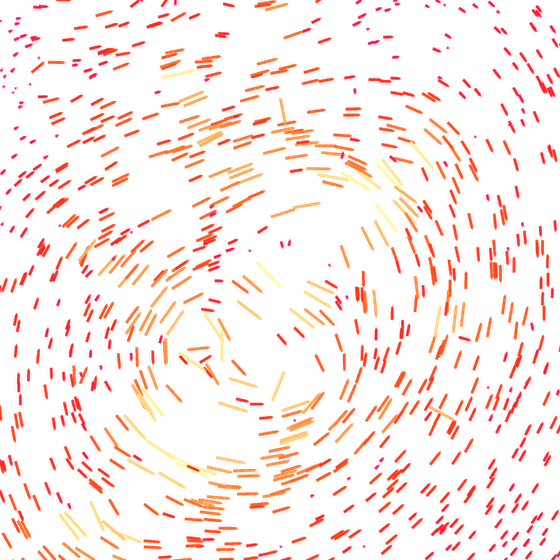
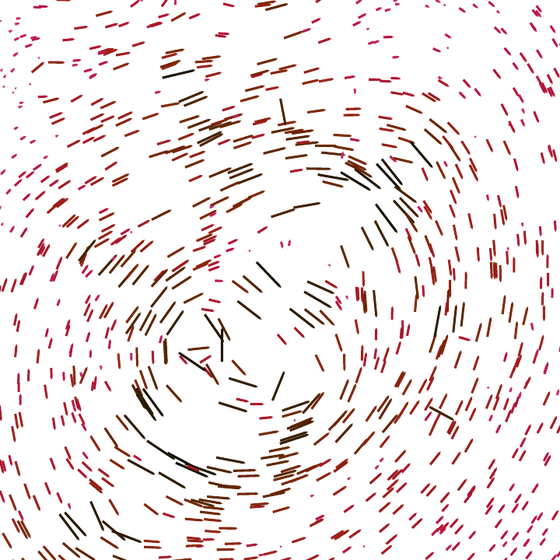
assets: convert the shear thumbnail for paper by inverting CIELAB lightness
The whiskers were drawn for a black background, so the colormap puts the strong
signal at the BRIGHT end — exactly the end that disappears on cream. Darkening
(the previous commit) raised contrast but left the ramp running backwards, so the
strongest whiskers were still the least visible.

Inverting L* reverses the ramp: strong whiskers are now the darkest on paper.
a* and b* are untouched, so hue survives — a naive 255-RGB inversion would have
turned the warm colormap blue. Near-white pixels clip toward a dark warm tone,
since a bright yellow has no high-chroma counterpart at low lightness; that is an
accepted trade for a visualisation thumbnail that carries no readable values.

Applied to the pre-darkening original, not on top of the gamma pass.
Transparent pixels store RGB(0,0,0), which inverts to white and bleeds into
anti-aliased edges on a non-premultiplied resize, so they are neutralised.

Adds tools/darkfig-lab-invert.py. It supersedes darkfig-to-light.py whenever the
DATA colours are the problem rather than the plot furniture — that script only
touches near-neutral pixels, which is why it once turned Kaiser-Squires' grey
contour coding into black halos.

Claude-Session: https://claude.ai/code/session_01LWhC4XxHHpuwT6hbaAg56i

diff --git a/tools/darkfig-lab-invert.py b/tools/darkfig-lab-invert.py
@@ -1,0 +1,39 @@
+"""Flip a dark-background figure for a light one by inverting CIELAB lightness.
+
+L* -> 100 - L* reverses the luminance ramp, so what was bright-on-black becomes
+dark-on-paper, while a* and b* are untouched -- hue and chroma survive, which a
+naive 255-RGB inversion would destroy (orange would come back blue).
+
+Out-of-gamut is expected and fine here: a bright yellow at L*~95 has no
+high-chroma counterpart at L*~5, so littlecms clips it toward a dark warm tone.
+For a visualisation thumbnail that is the right trade.
+"""
+from PIL import Image, ImageCms
+import sys
+
+def lab_invert(src, dst):
+    im = Image.open(src).convert('RGBA')
+    alpha = im.getchannel('A')
+    srgb_p, lab_p = ImageCms.createProfile('sRGB'), ImageCms.createProfile('LAB')
+    to_lab = ImageCms.buildTransformFromOpenProfiles(srgb_p, lab_p, 'RGB', 'LAB')
+    to_rgb = ImageCms.buildTransformFromOpenProfiles(lab_p, srgb_p, 'LAB', 'RGB')
+    L, A, B = ImageCms.applyTransform(im.convert('RGB'), to_lab).split()
+    L = L.point(lambda v: 255 - v)
+    out = ImageCms.applyTransform(Image.merge('LAB', (L, A, B)), to_rgb).convert('RGBA')
+    out.putalpha(alpha)
+    # transparent pixels carry RGB(0,0,0), which inverts to white and can bleed
+    # into anti-aliased edges on a non-premultiplied resize. Neutralise them.
+    out.paste((90, 70, 60, 0), mask=alpha.point(lambda v: 255 if v == 0 else 0))
+    out.save(dst)
+    return out
+
+lab_invert(sys.argv[1], sys.argv[2])
+
+# Usage:  python3 tools/darkfig-lab-invert.py in.png out.png
+#
+# Use this, NOT tools/darkfig-to-light.py, when the DATA COLOURS themselves were
+# chosen for a dark background — i.e. the colormap's bright end carries the
+# strong signal. darkfig-to-light.py only inverts near-neutral pixels, so it
+# fixes white axes and labels but leaves the data ramp running the wrong way for
+# paper (and it once turned Kaiser-Squires' grey contour coding into black
+# halos). This script inverts L* for every pixel, which reverses the ramp.

diff --git a/PhD_Defense_2026/README.md b/PhD_Defense_2026/README.md
@@ -71,6 +71,12 @@ Two things this opened, both written up in `STRUCTURE.md` §5 under the Act 0 ta
   it had been pointing at `wavelet_l1_norm.png`, which `NonGaussian_Universe_2026` also uses, so the
   deck was repointed to `wavelet_l1_norm_light.png` and the shared original left alone.
 
+  **The shear thumbnail was converted, not just darkened** (2026-09-03). It was drawn for a black
+  background, so its colormap put the *strong* signal at the bright end — which on cream is the end
+  that disappears. `tools/darkfig-lab-invert.py` inverts CIELAB L\* for every pixel, reversing the
+  ramp so strong whiskers are dark on paper, while a\*/b\* keep the hue a naive 255−RGB inversion
+  would have flipped. One file covers the chain slide, both act dividers and the inverse-problem slide.
+
   **One recoloured fallback is left on a live slide:** `mass_maps_(ks_iks_mca)_transparent_light`
   (frame 27). `mass_maps.pdf` in the paper folder is its counterpart; the difference is a **colour
   cast** — the fallback is brighter and warmer than the published figure — not the halo defect, so
